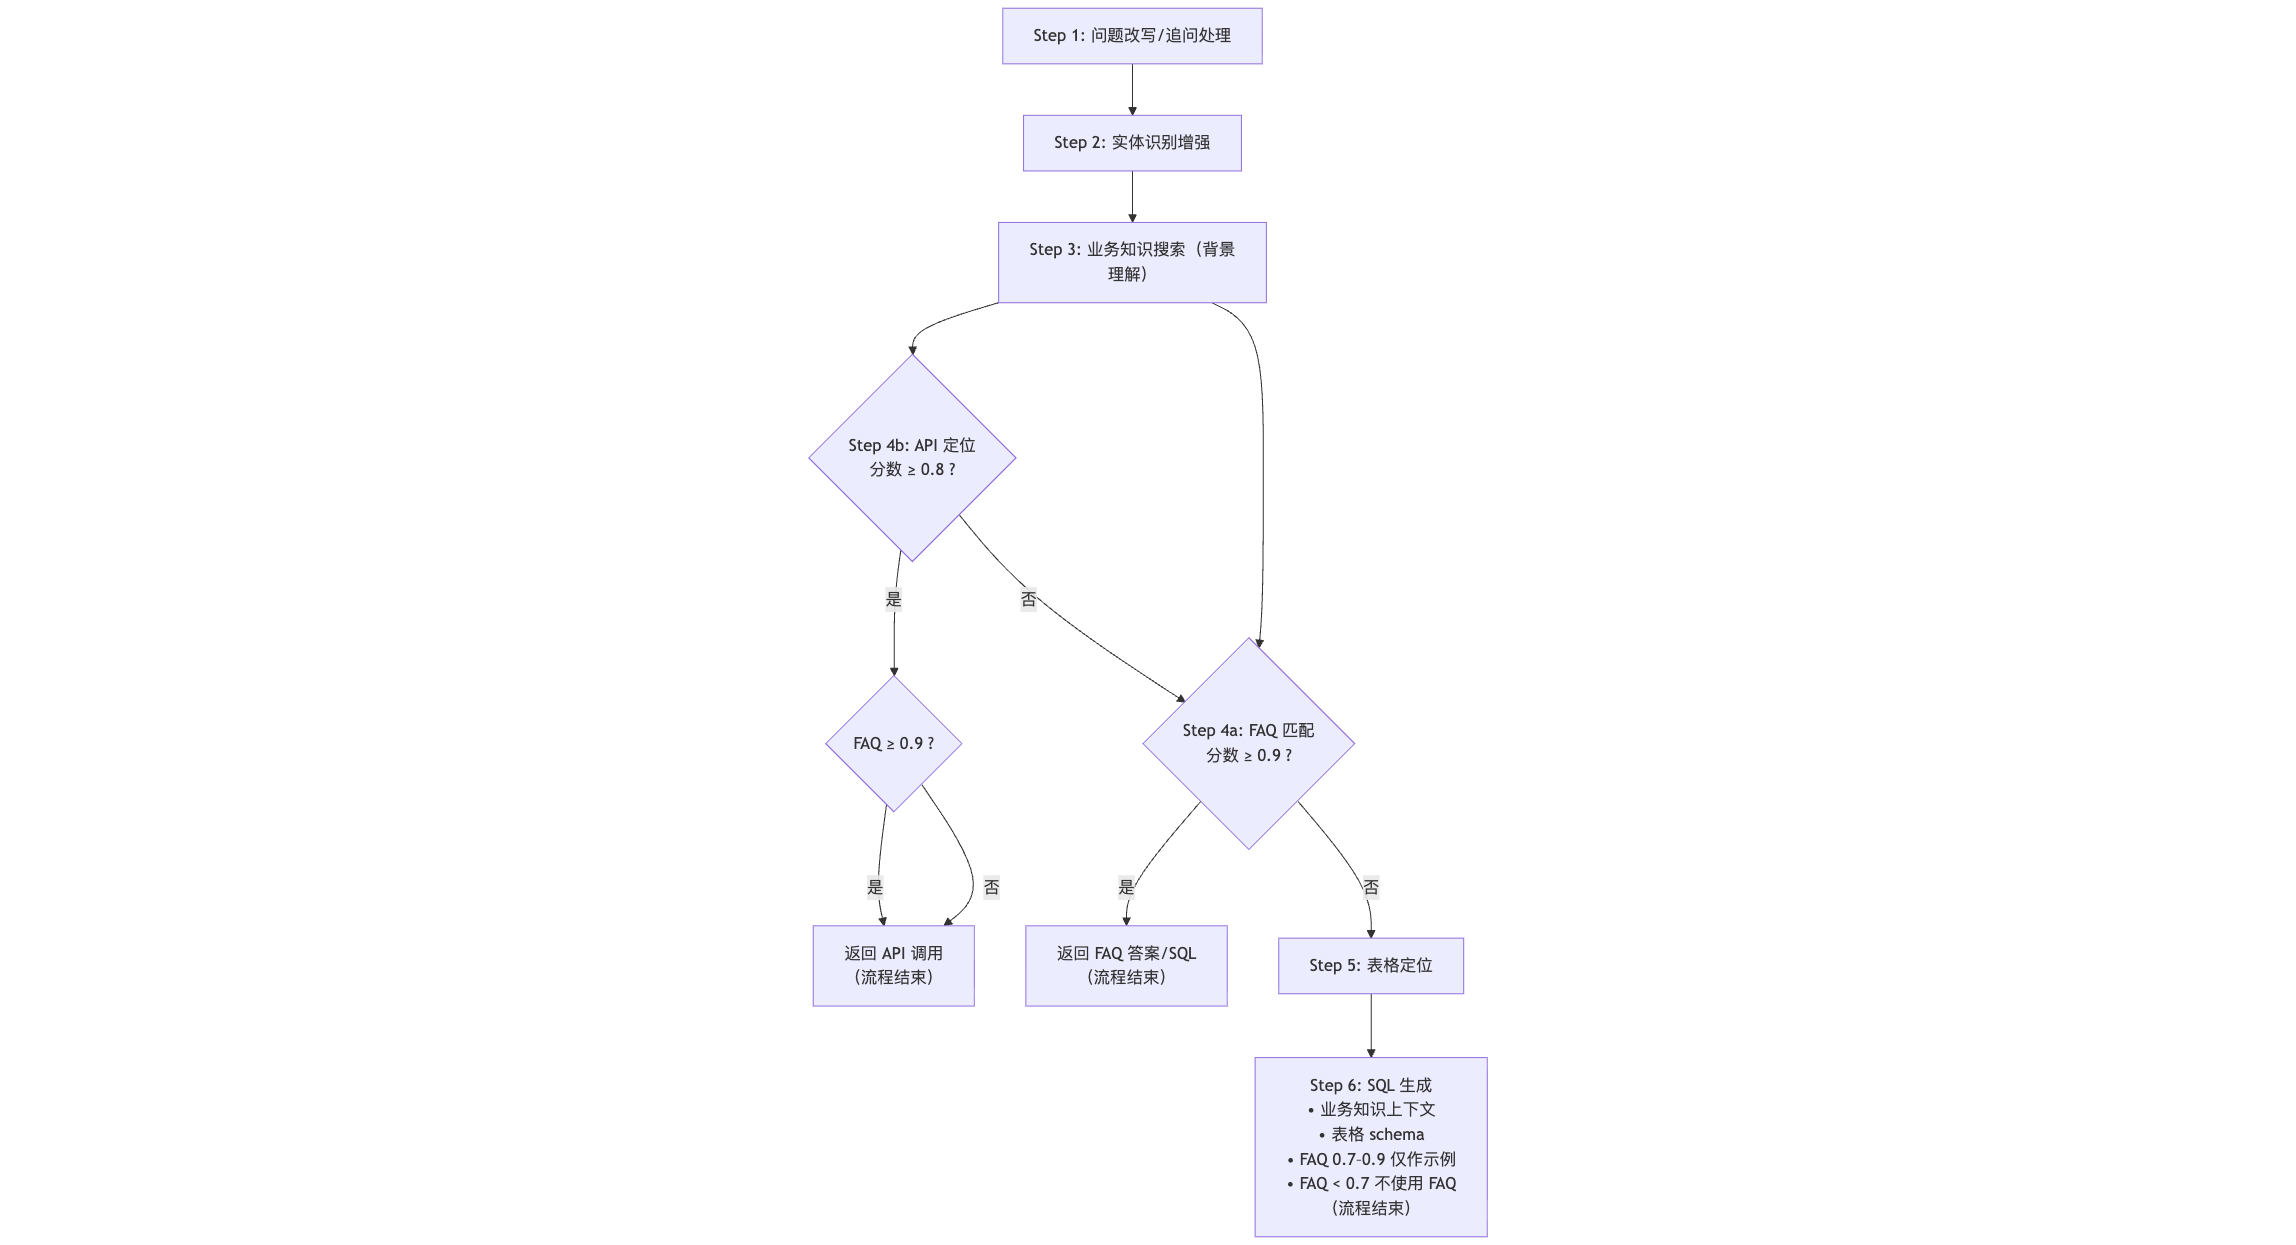
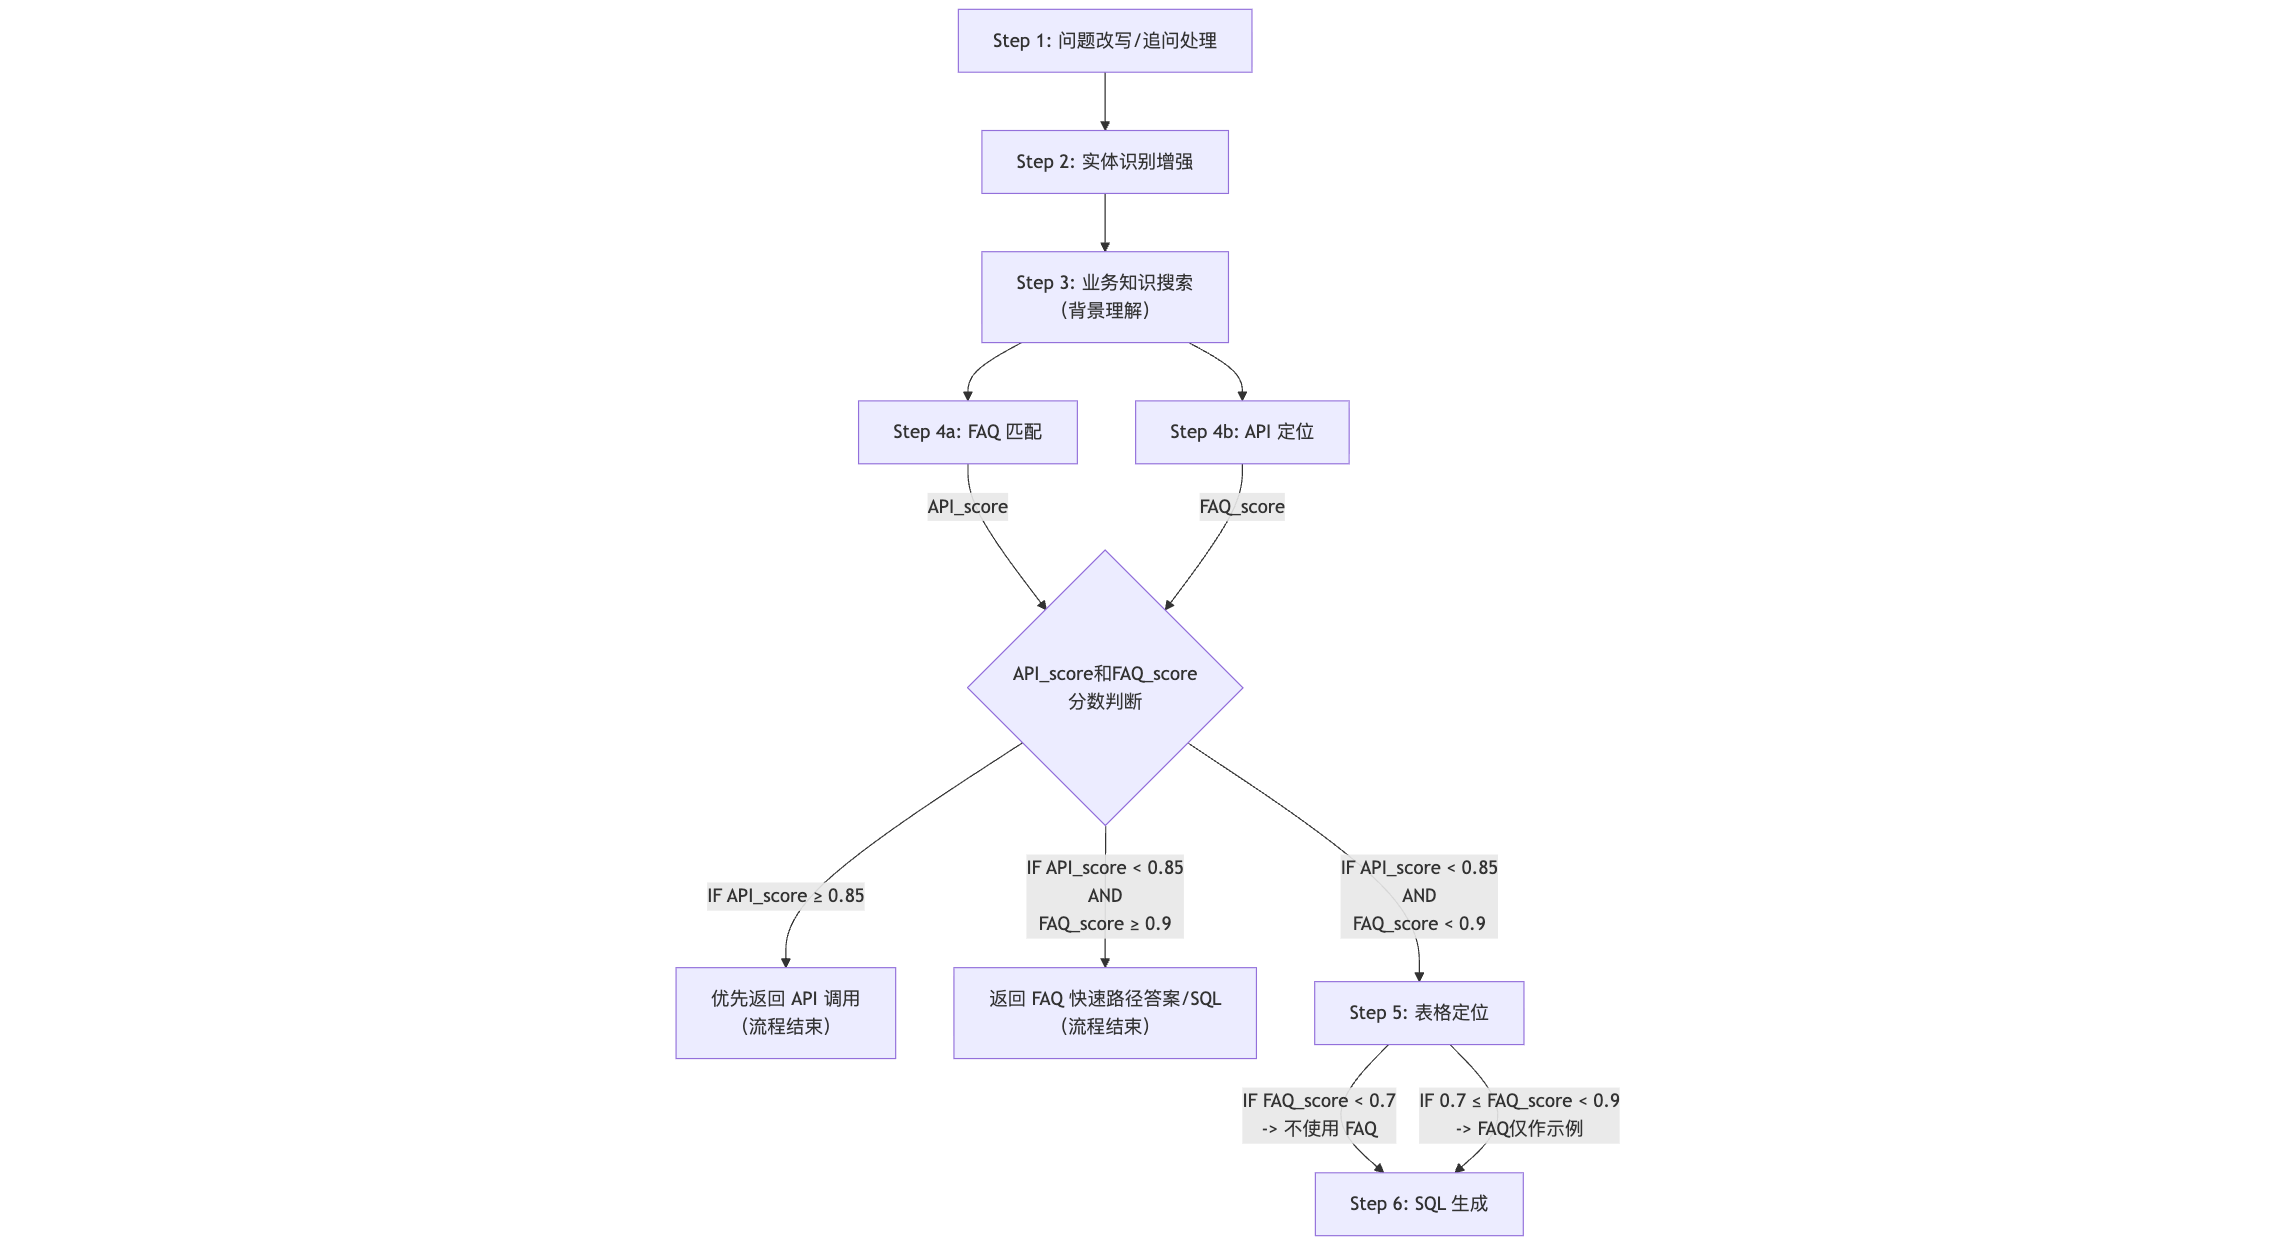
add a flowchart

diff --git a/app/core/data/README.md b/app/core/data/README.md
@@ -15,7 +15,7 @@
    - FAQ < 0.7：不使用 FAQ
 
 ### Fast-path decision table
-| API ≥ 0.8 | FAQ ≥ 0.9 | 结果 |
+| API ≥ 0.85 | FAQ ≥ 0.9 | 结果 |
 |---|---|---|
 | 是 | 是 | 返回 API（**API 优先**） |
 | 是 | 否 | 返回 API |
